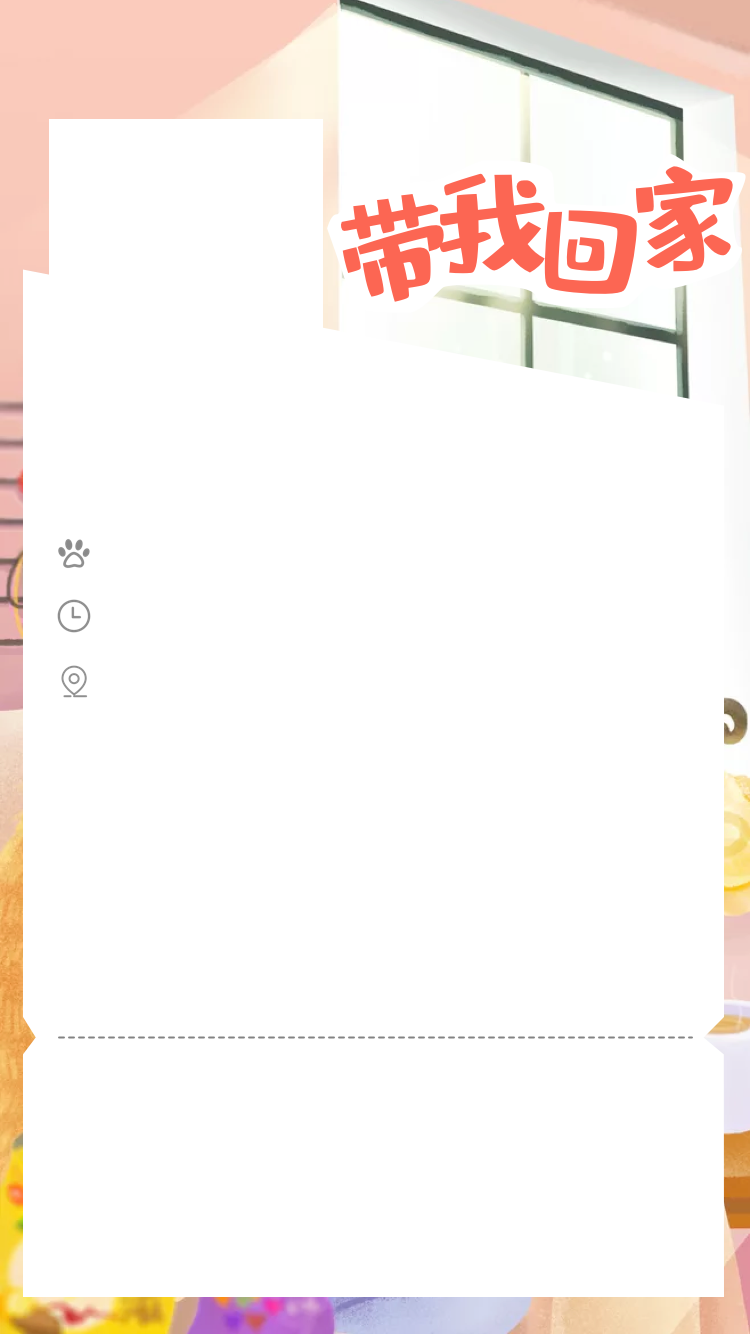
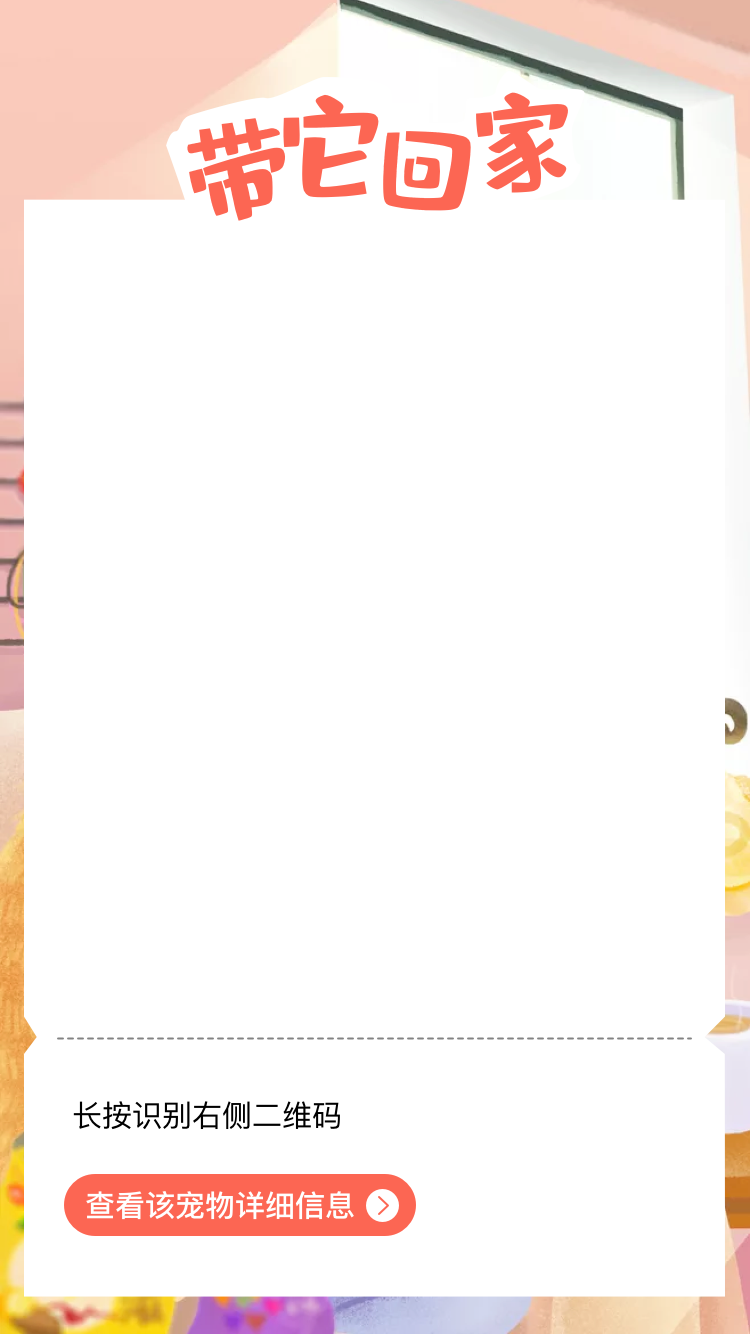
更新海报

Changed region(s): [[0.0307, 0.0615, 1.0, 0.3073], [0.0613, 0.8298, 0.552, 0.9528], [0.0613, 0.3996, 0.1227, 0.5225]]

diff --git a/pages/adoption/share/share.js b/pages/adoption/share/share.js
@@ -5,6 +5,8 @@ var userId
 var petId
 var context
 var destHeight
+var destWidth
+
 
 Page({
 
@@ -60,24 +62,21 @@ Page({
     var that = this
     var petInfo = this.data.petInfo
     context = wx.createCanvasContext("post-adoption", this)
-    context.drawImage('../../../images/post-adoption.png', 15, 0, that.data.screenWidth - 30, 613)
+    context.drawImage('../../../images/post-adoption.png', 15, 0, that.data.screenWidth - 30, 620)
     wx.getImageInfo({
       src: that.data.photoPrefix + petInfo.mediaList[0].mediaPath,
       success(res) {
-        var petPhoto = res.path;
-        context.drawImage(petPhoto, 45, 60, 112, destHeight)
-        context.setFontSize(16)
-        context.fillText('Hi，我叫 ' + petInfo.petName, 70, 260)
-        context.fillText(that.genInfo2(), 70, 288)
-        context.fillText(petInfo.address, 70, 320)
+        var petPhoto = res.path
+        context.drawImage(petPhoto, (that.data.screenWidth - destWidth) / 2, 110, destWidth, destHeight)
+        context.setFontSize(20)
+        var header = 'Hi，我叫 ' + petInfo.petName
+        var headerWidth = context.measureText(header).width
+        context.fillText(header, (that.data.screenWidth - headerWidth) / 2, 395)
         var story = petInfo.story
         story = story.replace(/\s*/g, "");
-        that.drawText(context, story, 45, 350, 280)
-        context.fillText('长按识别右侧二维码', 45, 520)
-        context.setFillStyle('#fc6653')
-        context.fillRect(45, 538, 150, 32)
-        context.setFillStyle("#ffffff")
-        context.fillText('查看待领养宠物详情', 48, 560)
+        context.setFontSize(15)
+        context.setFillStyle("#999999")
+        that.drawText(context, story, 45, 420, 280)
         wx.request({
           url: app.globalData.requestUrlWechat + '/miniSystemApi/generateWxACode',
           dataType: "json",
@@ -92,7 +91,7 @@ Page({
               src: wxAcodeUrl,
               success(res) {
                 wxAcodeUrl = res.path;
-                context.drawImage(wxAcodeUrl, 220, 490, 90, 90)
+                context.drawImage(wxAcodeUrl, 225, 490, 90, 90)
                 context.draw()
                 wx.hideLoading()
               }
@@ -108,11 +107,28 @@ Page({
     var that = this
     let oImgW = e.detail.width; //图片原始宽度
     let oImgH = e.detail.height; //图片原始高
-    destHeight = oImgH / oImgW * 112
-    console.log(destHeight)
-    if (destHeight > 150) {
-      destHeight = 150
+
+    if (oImgW > oImgH) {
+      if (oImgW > 275) {
+        destWidth = 275
+        destHeight = oImgH / oImgW * 275
+        if (destHeight > 255) {
+          destHeight = 255
+        }
+      } else {
+        destWidth = oImgW
+        destHeight = oImgH
+      }
+    } else {
+      if (oImgH > 255) {
+        destHeight = 255
+        destWidth = oImgW / oImgH * 255
+      } else {
+        destWidth = oImgW
+        destHeight = oImgH
+      }
     }
+
     wx.getSystemInfo({
       success(res) {
         that.setData({
@@ -121,21 +137,6 @@ Page({
         that.generatePost()
       }
     })
-  },
-  genInfo1: function() {
-    var petInfo = this.data.petInfo
-    var phrase = ''
-    if (petInfo.petFrom == 1) {
-      phrase += '我在家，期待新主人领养'
-    } else {
-      phrase += '我被好心人暂时收养，好期待一个家~'
-    }
-    return phrase
-  },
-  genInfo2: function() {
-    var petInfo = this.data.petInfo
-    var phrase = '发布时间：' + petInfo.createDate
-    return phrase
   },
   drawText: function(ctx, str, leftWidth, initHeight, canvasWidth) {
     var lineWidth = 0;
@@ -148,7 +149,7 @@ Page({
         lineWidth = 0;
         lastSubStrIndex = i;
       }
-      if (i >= 80) {
+      if (i >= 50) {
         ctx.fillText('...', leftWidth, initHeight);
         break
       }
@@ -169,9 +170,9 @@ Page({
       x: 15,
       y: 0,
       width: that.data.screenWidth - 30,
-      height: 613,
+      height: 620,
       destWidth: that.data.screenWidth * 750 / width,
-      destHeight: 613 * 750 / width,
+      destHeight: 620 * (that.data.screenWidth * 750 / width) / 350,
       canvasId: 'post-adoption',
       success(res) {
         wx.saveImageToPhotosAlbum({
